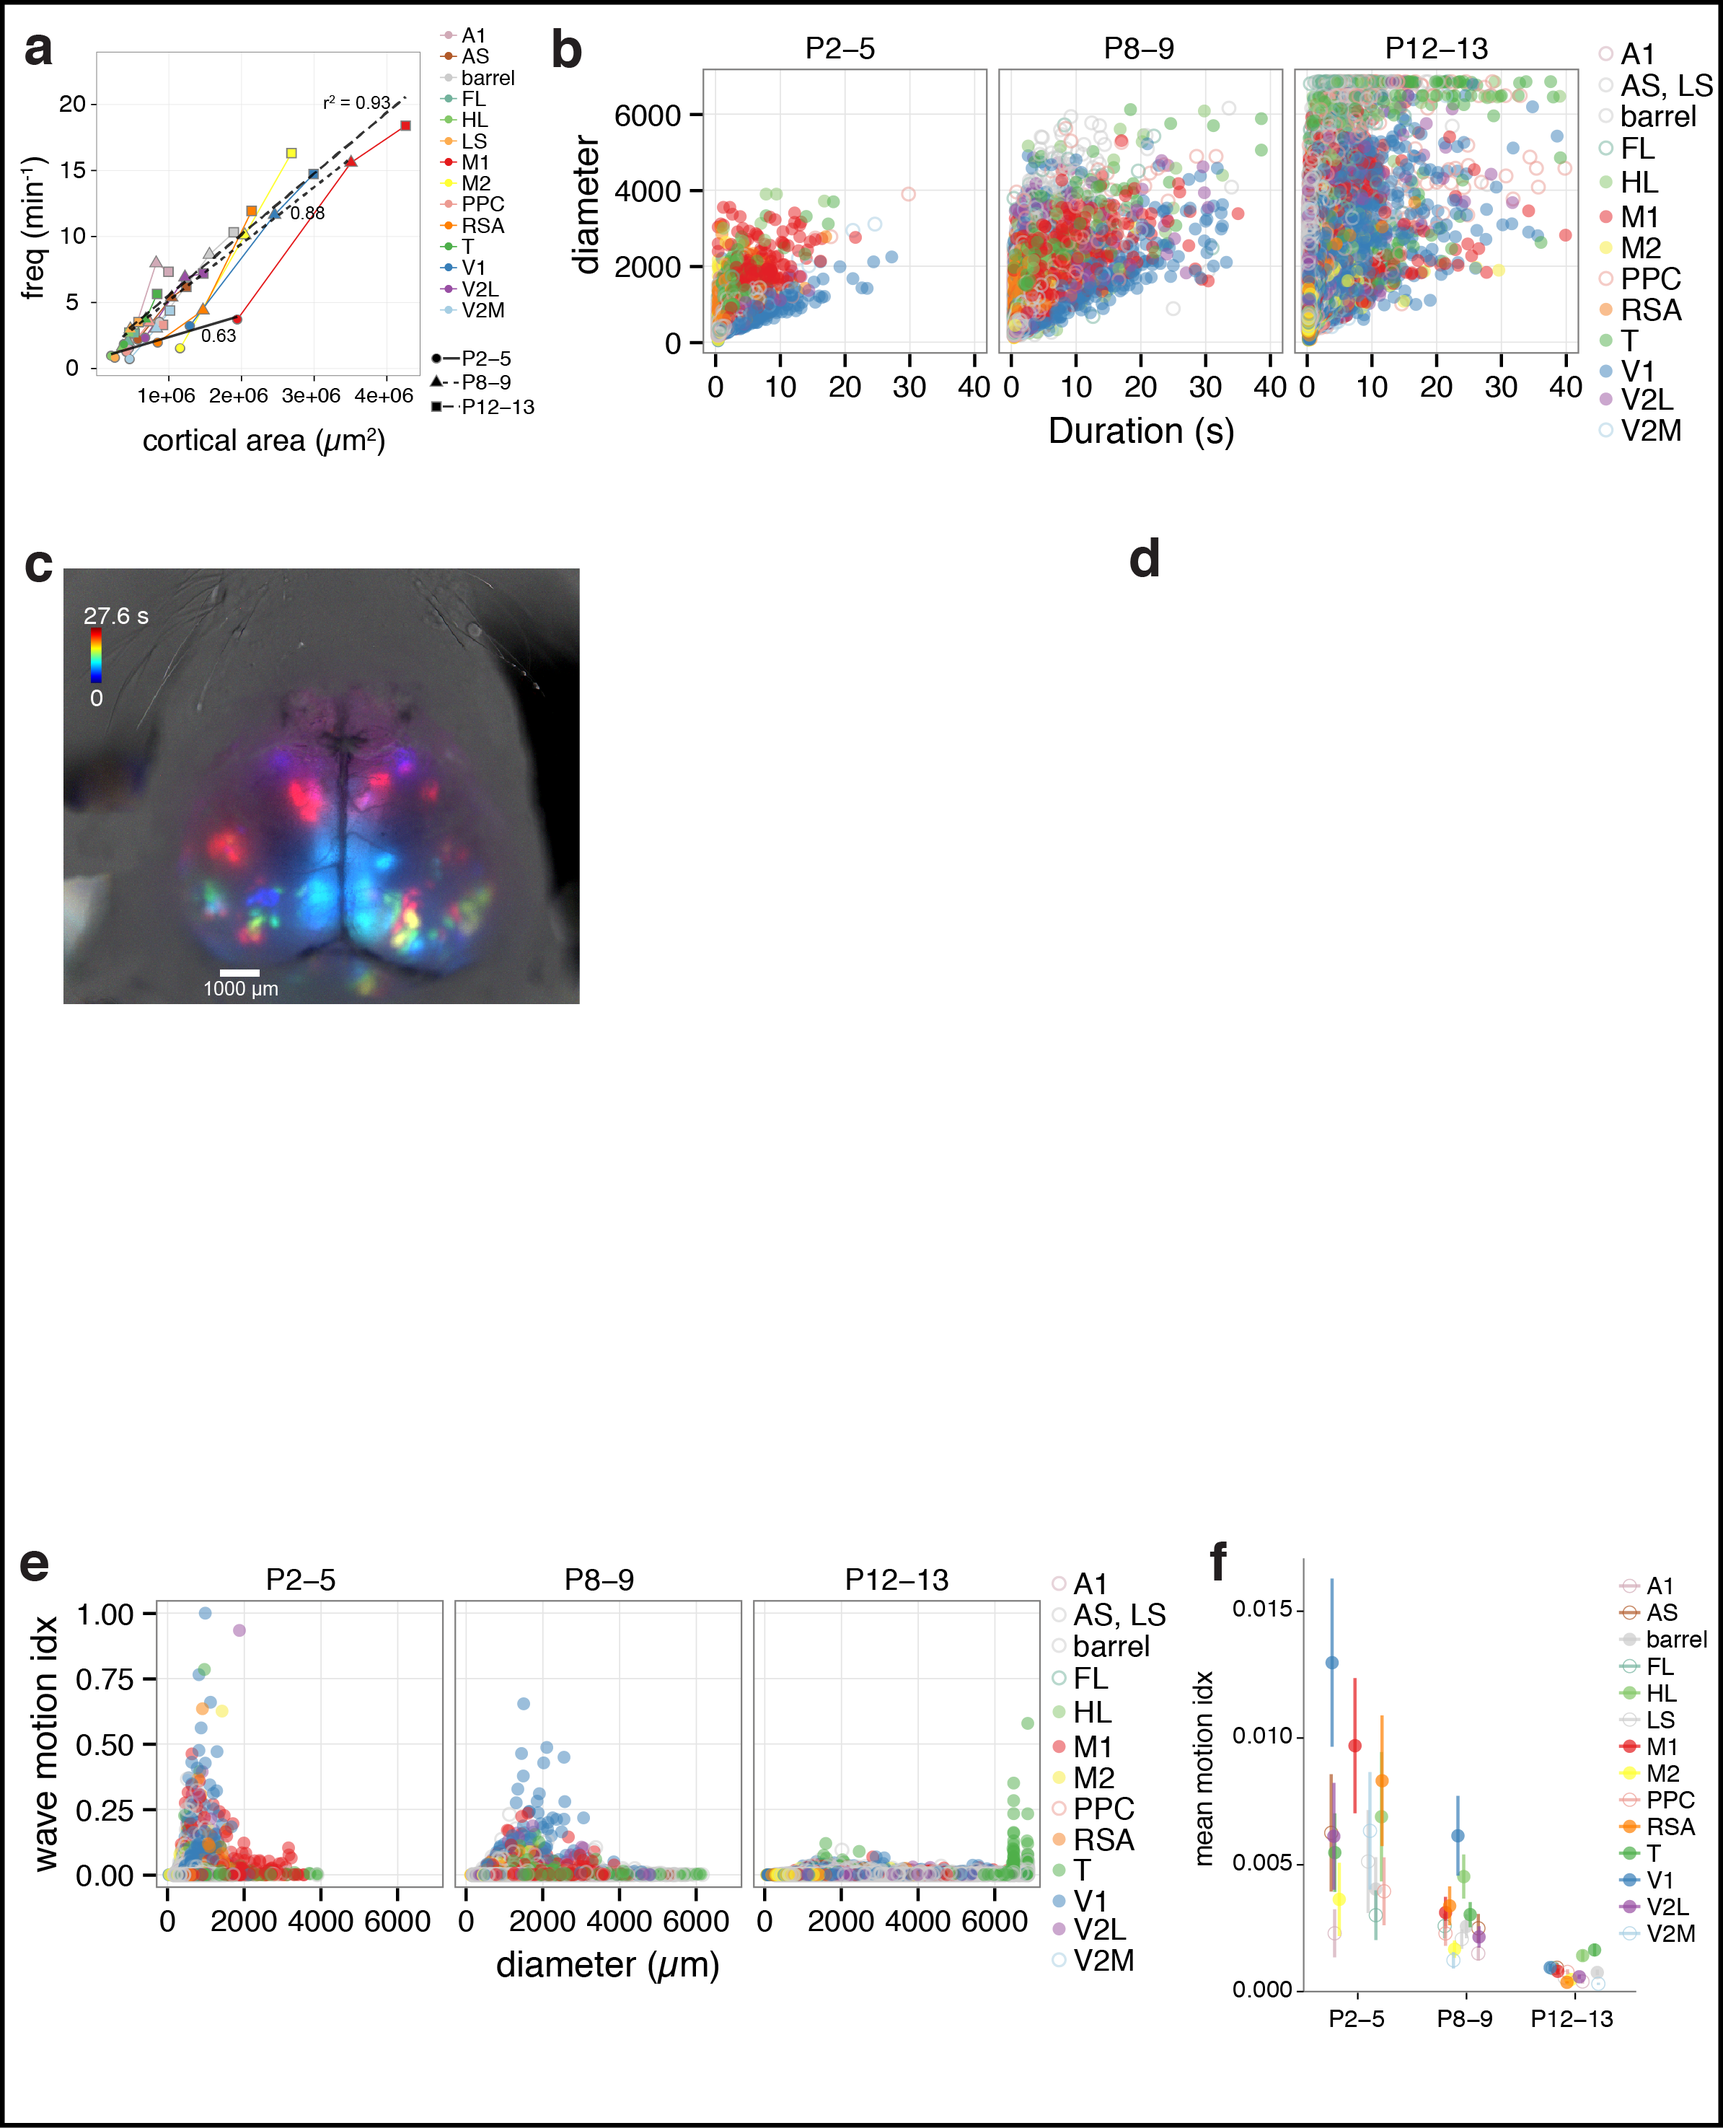
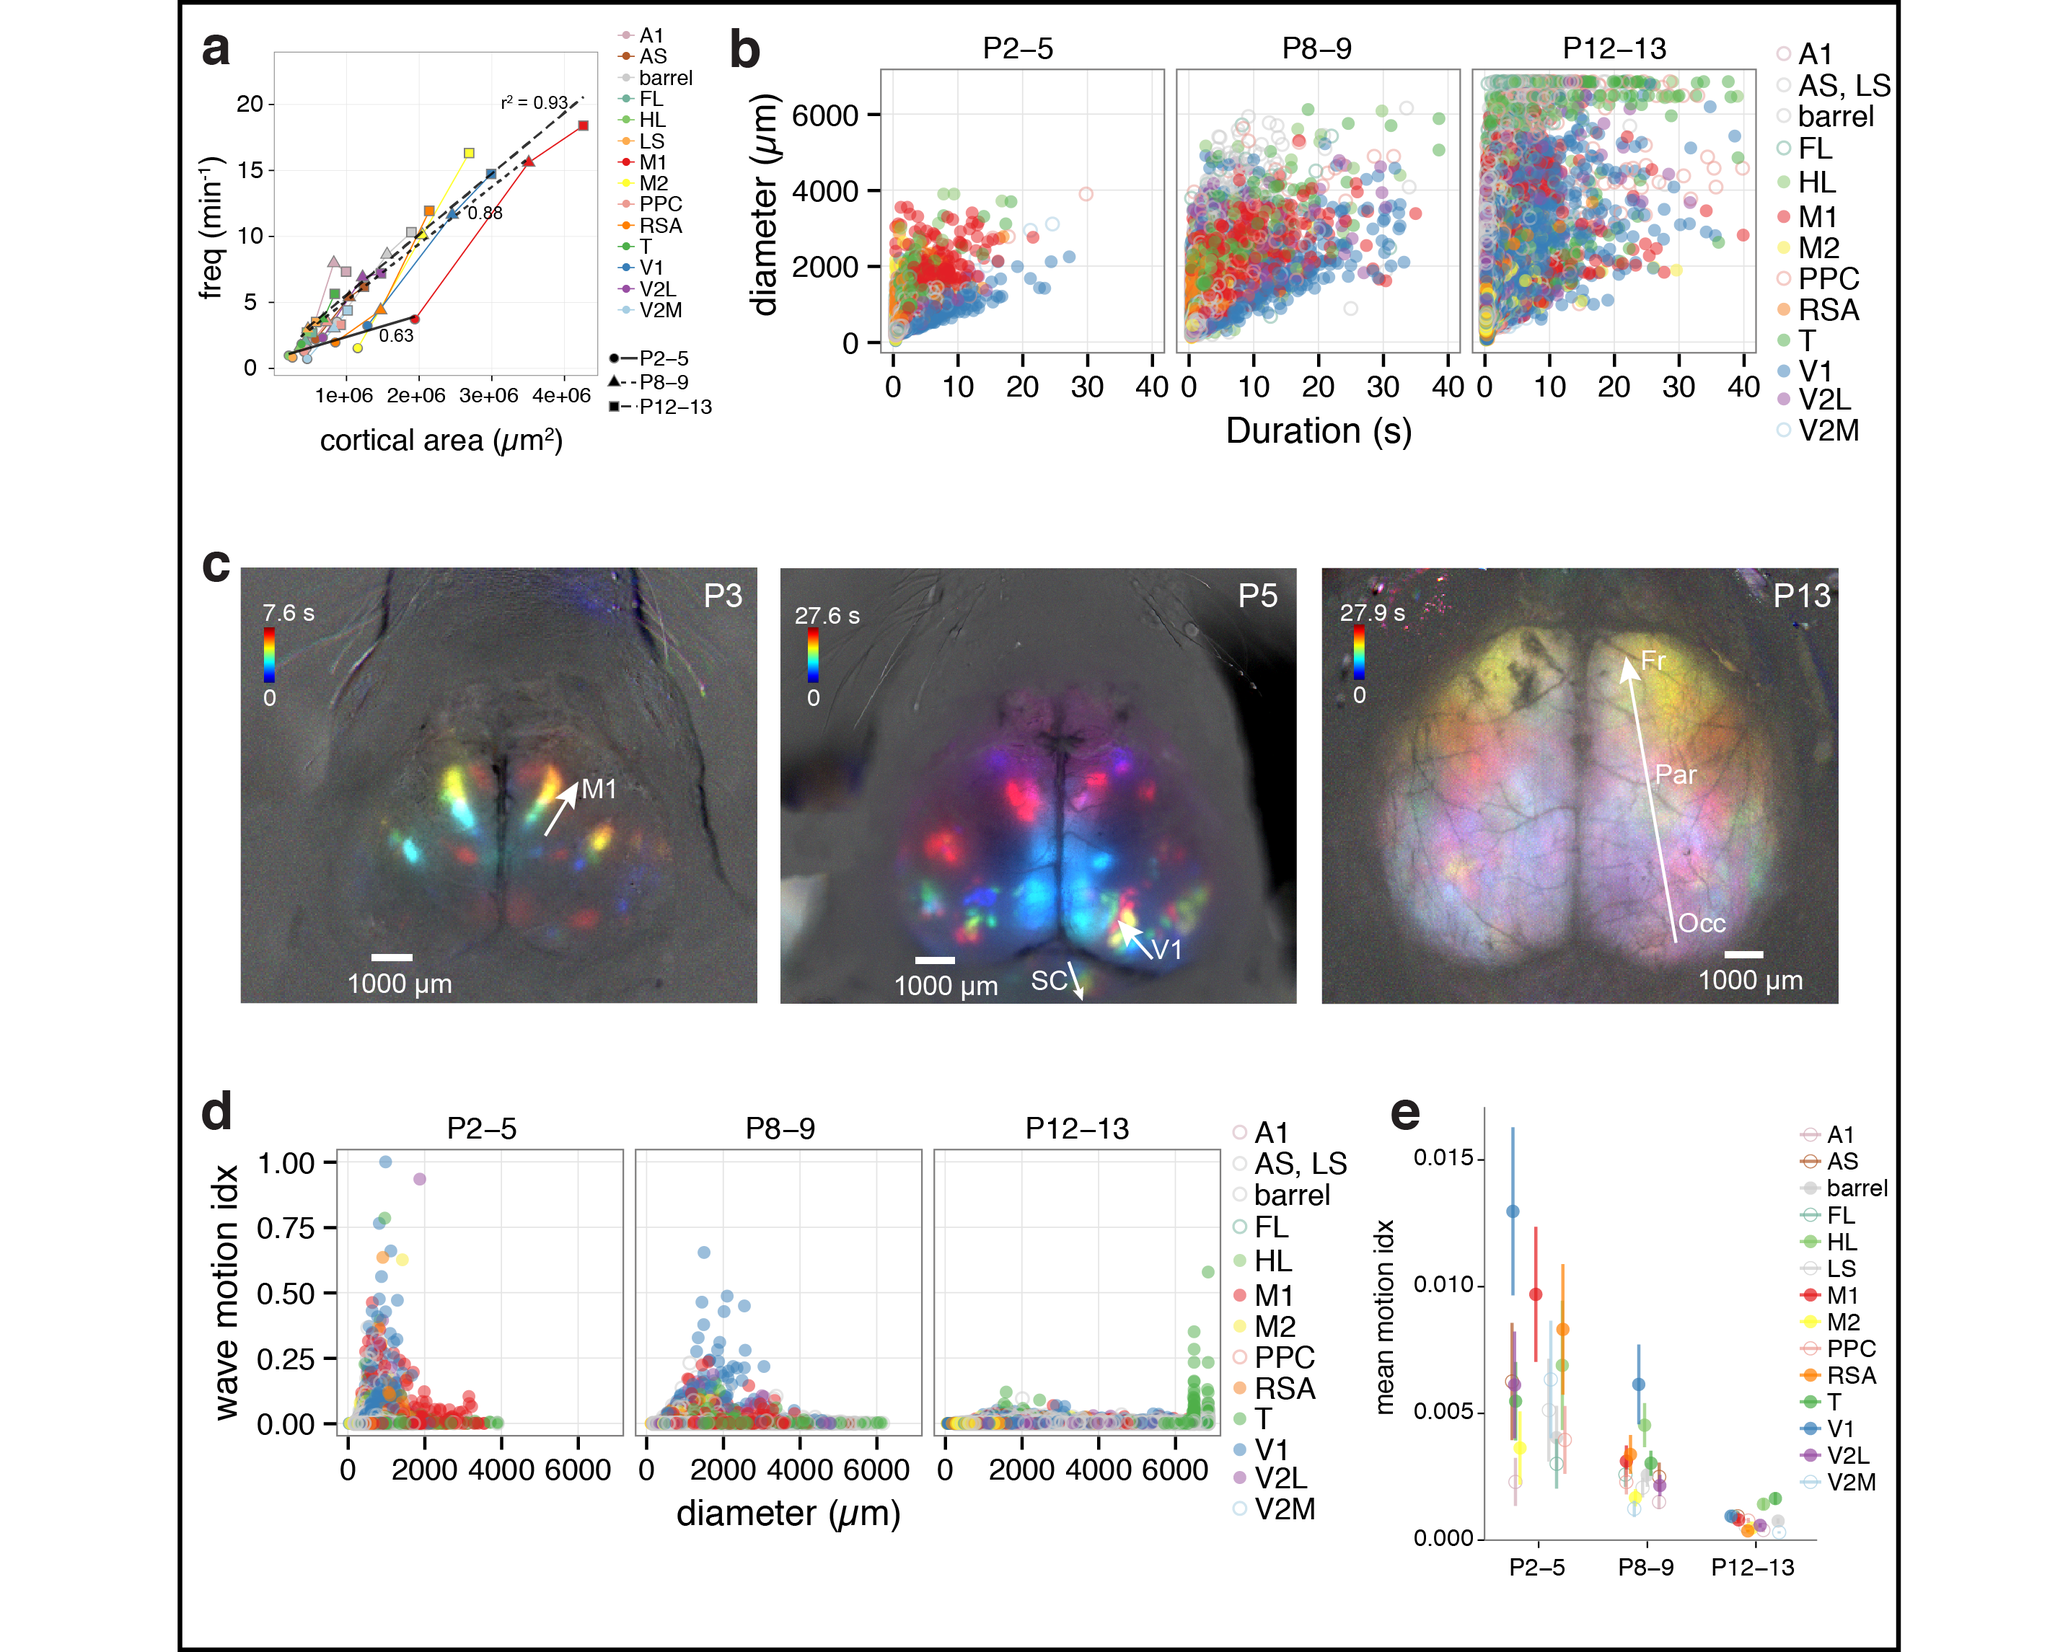
fig2 time proj

diff --git a/wholeBrain_main.md b/wholeBrain_main.md
@@ -48,7 +48,7 @@ We examined how the spatiotemporal properties of cortical domains vary among dif
 Cortical domain frequency among different regions scaled as a function of net cortical area and this association became stronger during the course of development (Fig. 2a). The most frequently cortical regions at each age group when normalized to the amount of total amount of cortical space was the limb/trunk representations in somatosensory cortex (Fig. 1i, Supplementary Fig.). Generally, the frequency of activity was remarkably uniform across cortical areas at each age of development (Supplementary Fig) indicating a homeostatic mechanism regulating global activity levels. The long tails in the domain duration and diameter distributions at P2-5 and P8-9 (Fig. 1f,h) were dominated by retinal wave driven cortical activity in V1 that lasted on the order of seconds to tens of seconds (Fig. 1e, Fig. 2b,c), but also by long lasting wave-like activations occurring in motor cortex (Fig. 1e, Fig. 2b,c). Indeed the cortical regions with the highest wave motion indices were V1 and M1 at P2-5, with V1 continuing to have the highest index at P8-9 and then dropping to mean motion idx level similar to other cortical regions at P12-13. The diameter of domain activation became larger among cortical regions during the second postnatal week including the S1-limb/body regions where at P13 a small subpopulation of events had mean diameters approaching that of the entire hemisphere and a higher wave motion index (Fig. 2d-f) (x% of all events, ~2/10min) [Supplementary Movie 2](../wholeBrain_blob/ackmanWholeBrainImaging-lo.mov) (Fig. 2d). These global population events synchronized activity across cortical areas and had centers of mass that were concentrated near the middle of each hemisphere in the S1-limb/body area.
 
 
-![ **Figure 2.** Spatiotemporal characteristics of cortical domains. **a** Domain frequency as function of cortical area size. **b** Scatterplots of domain diameter and duration. **c** Time projection maps of waves in visual cortex and motor cortex at P5. **d** Time projection maps of interareal activations at P13. **e** Scatterplots of wave motion index as function of domain diameter. **f** Mean wave motion index over development.](figure2.png)
+![ **Figure 2.** Spatiotemporal characteristics of cortical domains. **a** Domain frequency as function of cortical area size. **b** Scatterplots of domain diameter and duration. **c** Time projection maps of waves in motor cortex at P3, visual cortex at P5, and occipital-parietal-frontal cortex at P13. **d** Scatterplots of wave motion index as function of domain diameter. **e** Mean wave motion index over development.](figure2.png)
 
 
 
@@ -146,7 +146,9 @@ Anesthetized Rx-Cre:GCaMP3 or SNAP25-GCaMP6 mice between postnatal day 2 to 13 (
 <!-- Figure 2 metadata
 * Scatterplot mean freq:  140704-143614-freq_min-scatter.pdf
 * Scatterplot domain duration-diameter timeline:  140702-141423-durDiam-scatter-img.pdf
-* P5 wave time projection: 140328_10-fr2016-2153-20140710-092344.tif
+* P3 M1 wave time projection, lomag:  140218_13-fr2564-2601-20140716-144024.tif
+* P5 V1 wave time projection, himag: 140328_10-fr2016-2153-20140710-092344.tif
+* P13 global wave time projection, lomag:  140509_07-fr1725-2004-20140717-172658.tif
 * wave motion index scatter:  140702-152109-rhoDiam-scatter.png
 * Wave motion index timeline:  140702-162029-waveMotionIdx-jitterTimeline.pdf 
 -->
